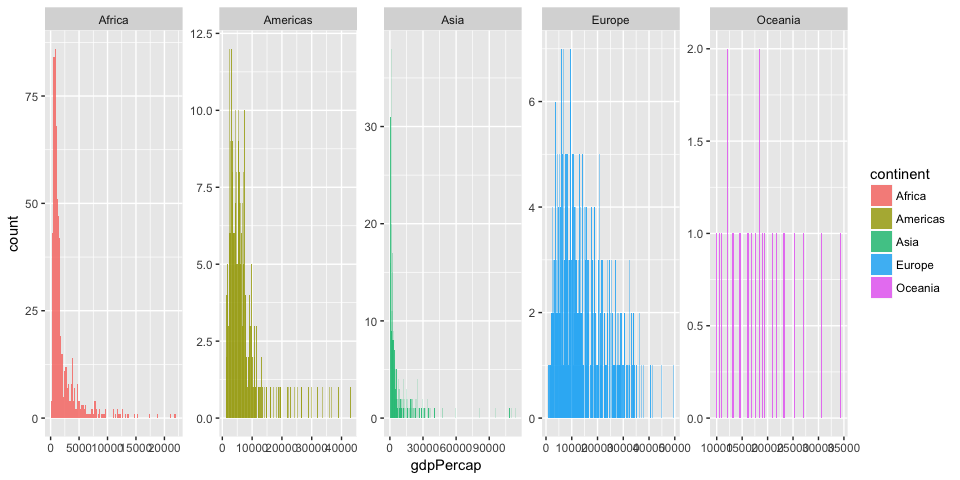
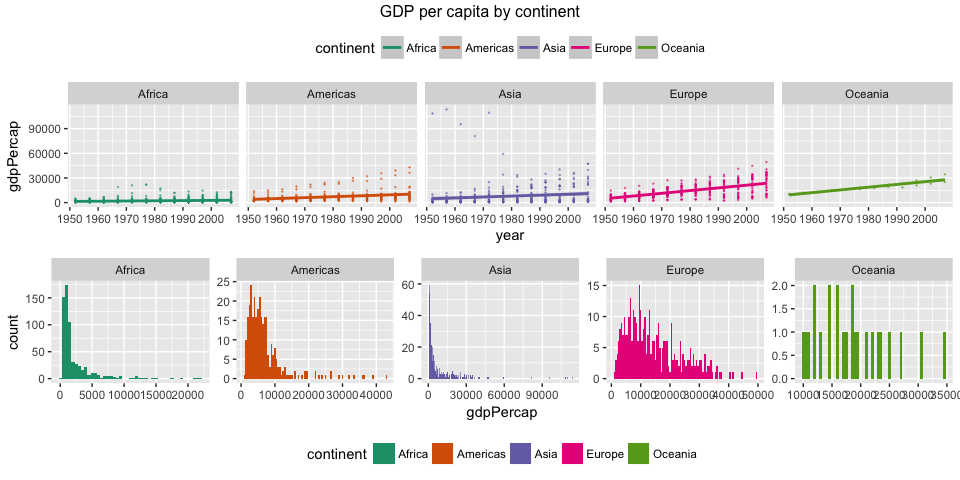
Used grid arrange

diff --git a/hw_03/hw03_dplyr.md b/hw_03/hw03_dplyr.md
@@ -11,6 +11,8 @@ Load Gapminder and tidyverse (contains dplyr and ggplot)
 suppressPackageStartupMessages(library(tidyverse))
 suppressPackageStartupMessages(library(gapminder))
 suppressPackageStartupMessages(library(knitr))
+suppressPackageStartupMessages(library(grid))
+suppressPackageStartupMessages(library(gridExtra))
 ```
 
 ``` r
@@ -96,10 +98,27 @@ kable(summary_gdpPercap)
 | Europe    |    973.5332|   7213.085|  12081.749|  20461.386|   49357.19|  14469.476|
 | Oceania   |  10039.5956|  14141.859|  17983.304|  22214.117|   34435.37|  18621.609|
 
+I chose to use a histogram to show the distribution of GDP per capita. I used the original gapminder dataset to show the full distribution of the values.
+
+To explore whether there is any trend correlating to year and GDP per capita, I used a a combination of a point graph overlapped with a linear fit graph.
+
 ``` r
-ggplot(gapminder, aes(x=gdpPercap, fill = continent)) + 
-      geom_histogram(alpha=0.8,binwidth=200) +
-      facet_wrap(~ continent, scales ="free", nrow = 1)
+gdppc_hist <- ggplot(gapminder, aes(x=gdpPercap, fill = continent)) + 
+      geom_histogram(binwidth=500) +
+      facet_wrap(~ continent, scales ="free", nrow = 1) +
+      scale_fill_brewer(palette = "Dark2") +
+      theme(legend.position="bottom")
+
+gdppc_line <- ggplot(gapminder, aes(year, gdpPercap, colour=continent)) +
+      geom_point(alpha=0.5, size=0.1) +
+      geom_smooth(method="lm") +
+      scale_color_brewer(palette = "Dark2") +
+      facet_grid(~continent) +
+      theme(legend.position="top")
+
+
+grid.arrange(gdppc_line,gdppc_hist, ncol=1,
+             top = textGrob("GDP per capita by continent"))
 ```
 
 ![](hw03_dplyr_files/figure-markdown_github-ascii_identifiers/plot-1.png)
